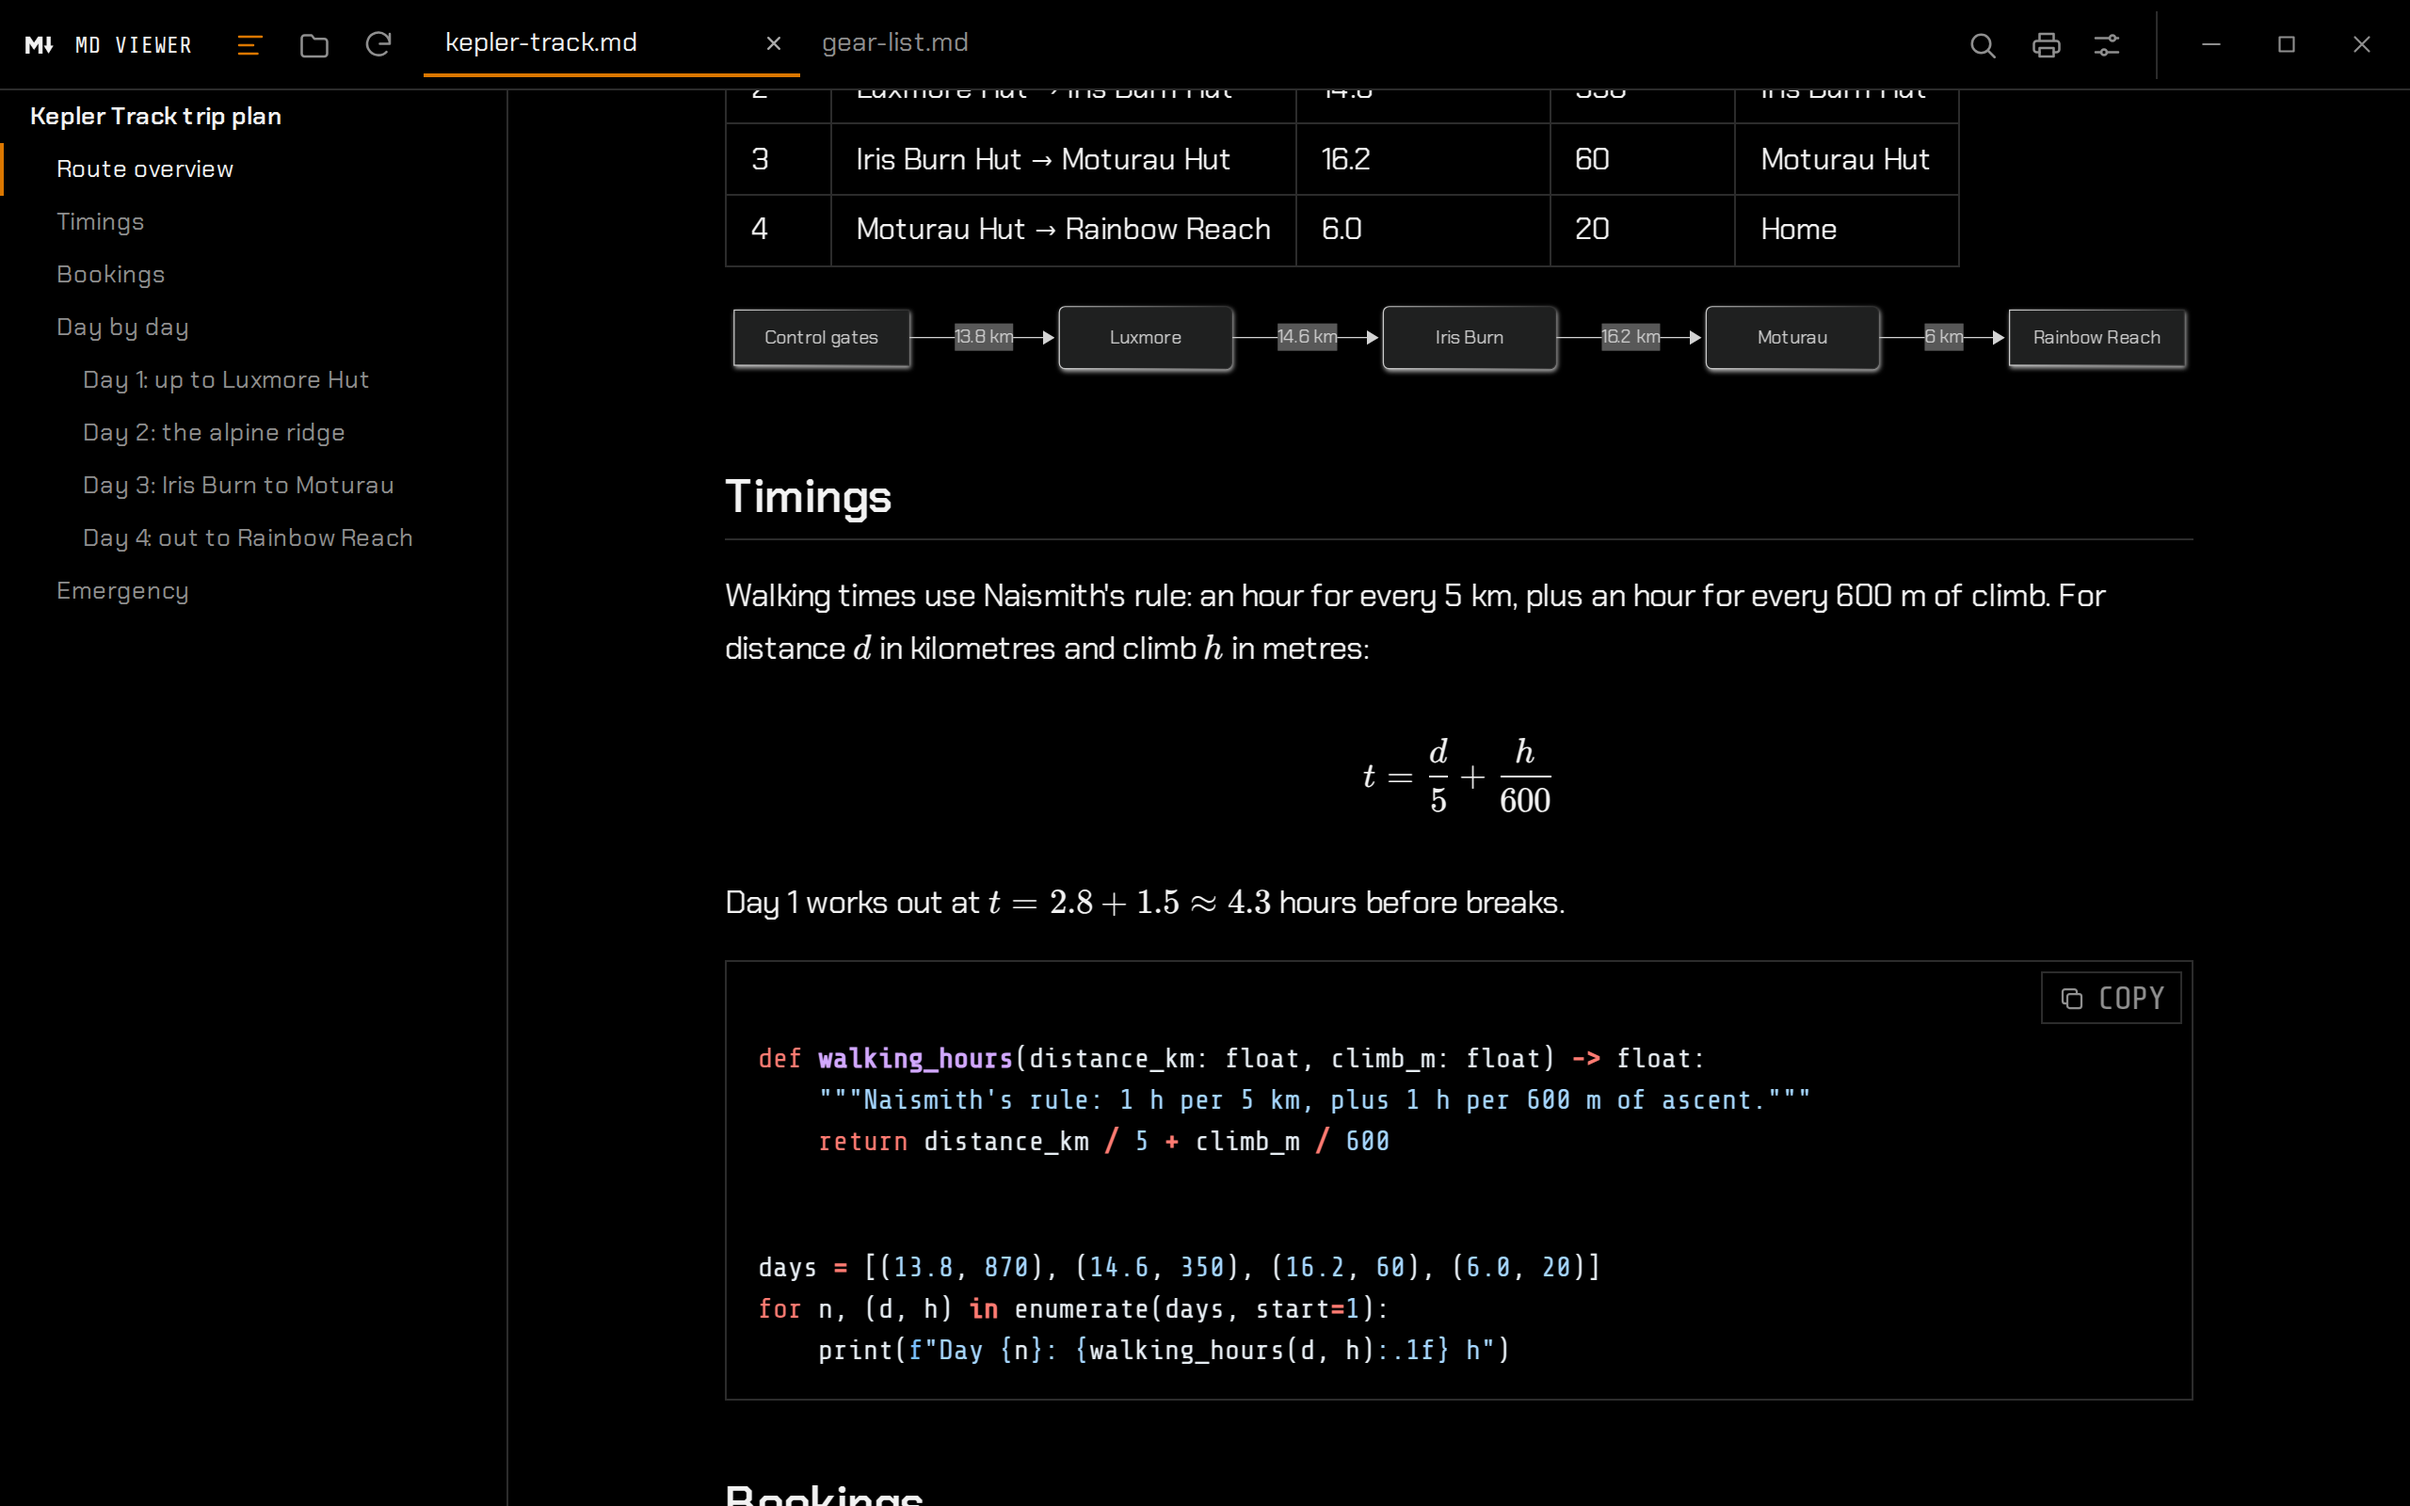
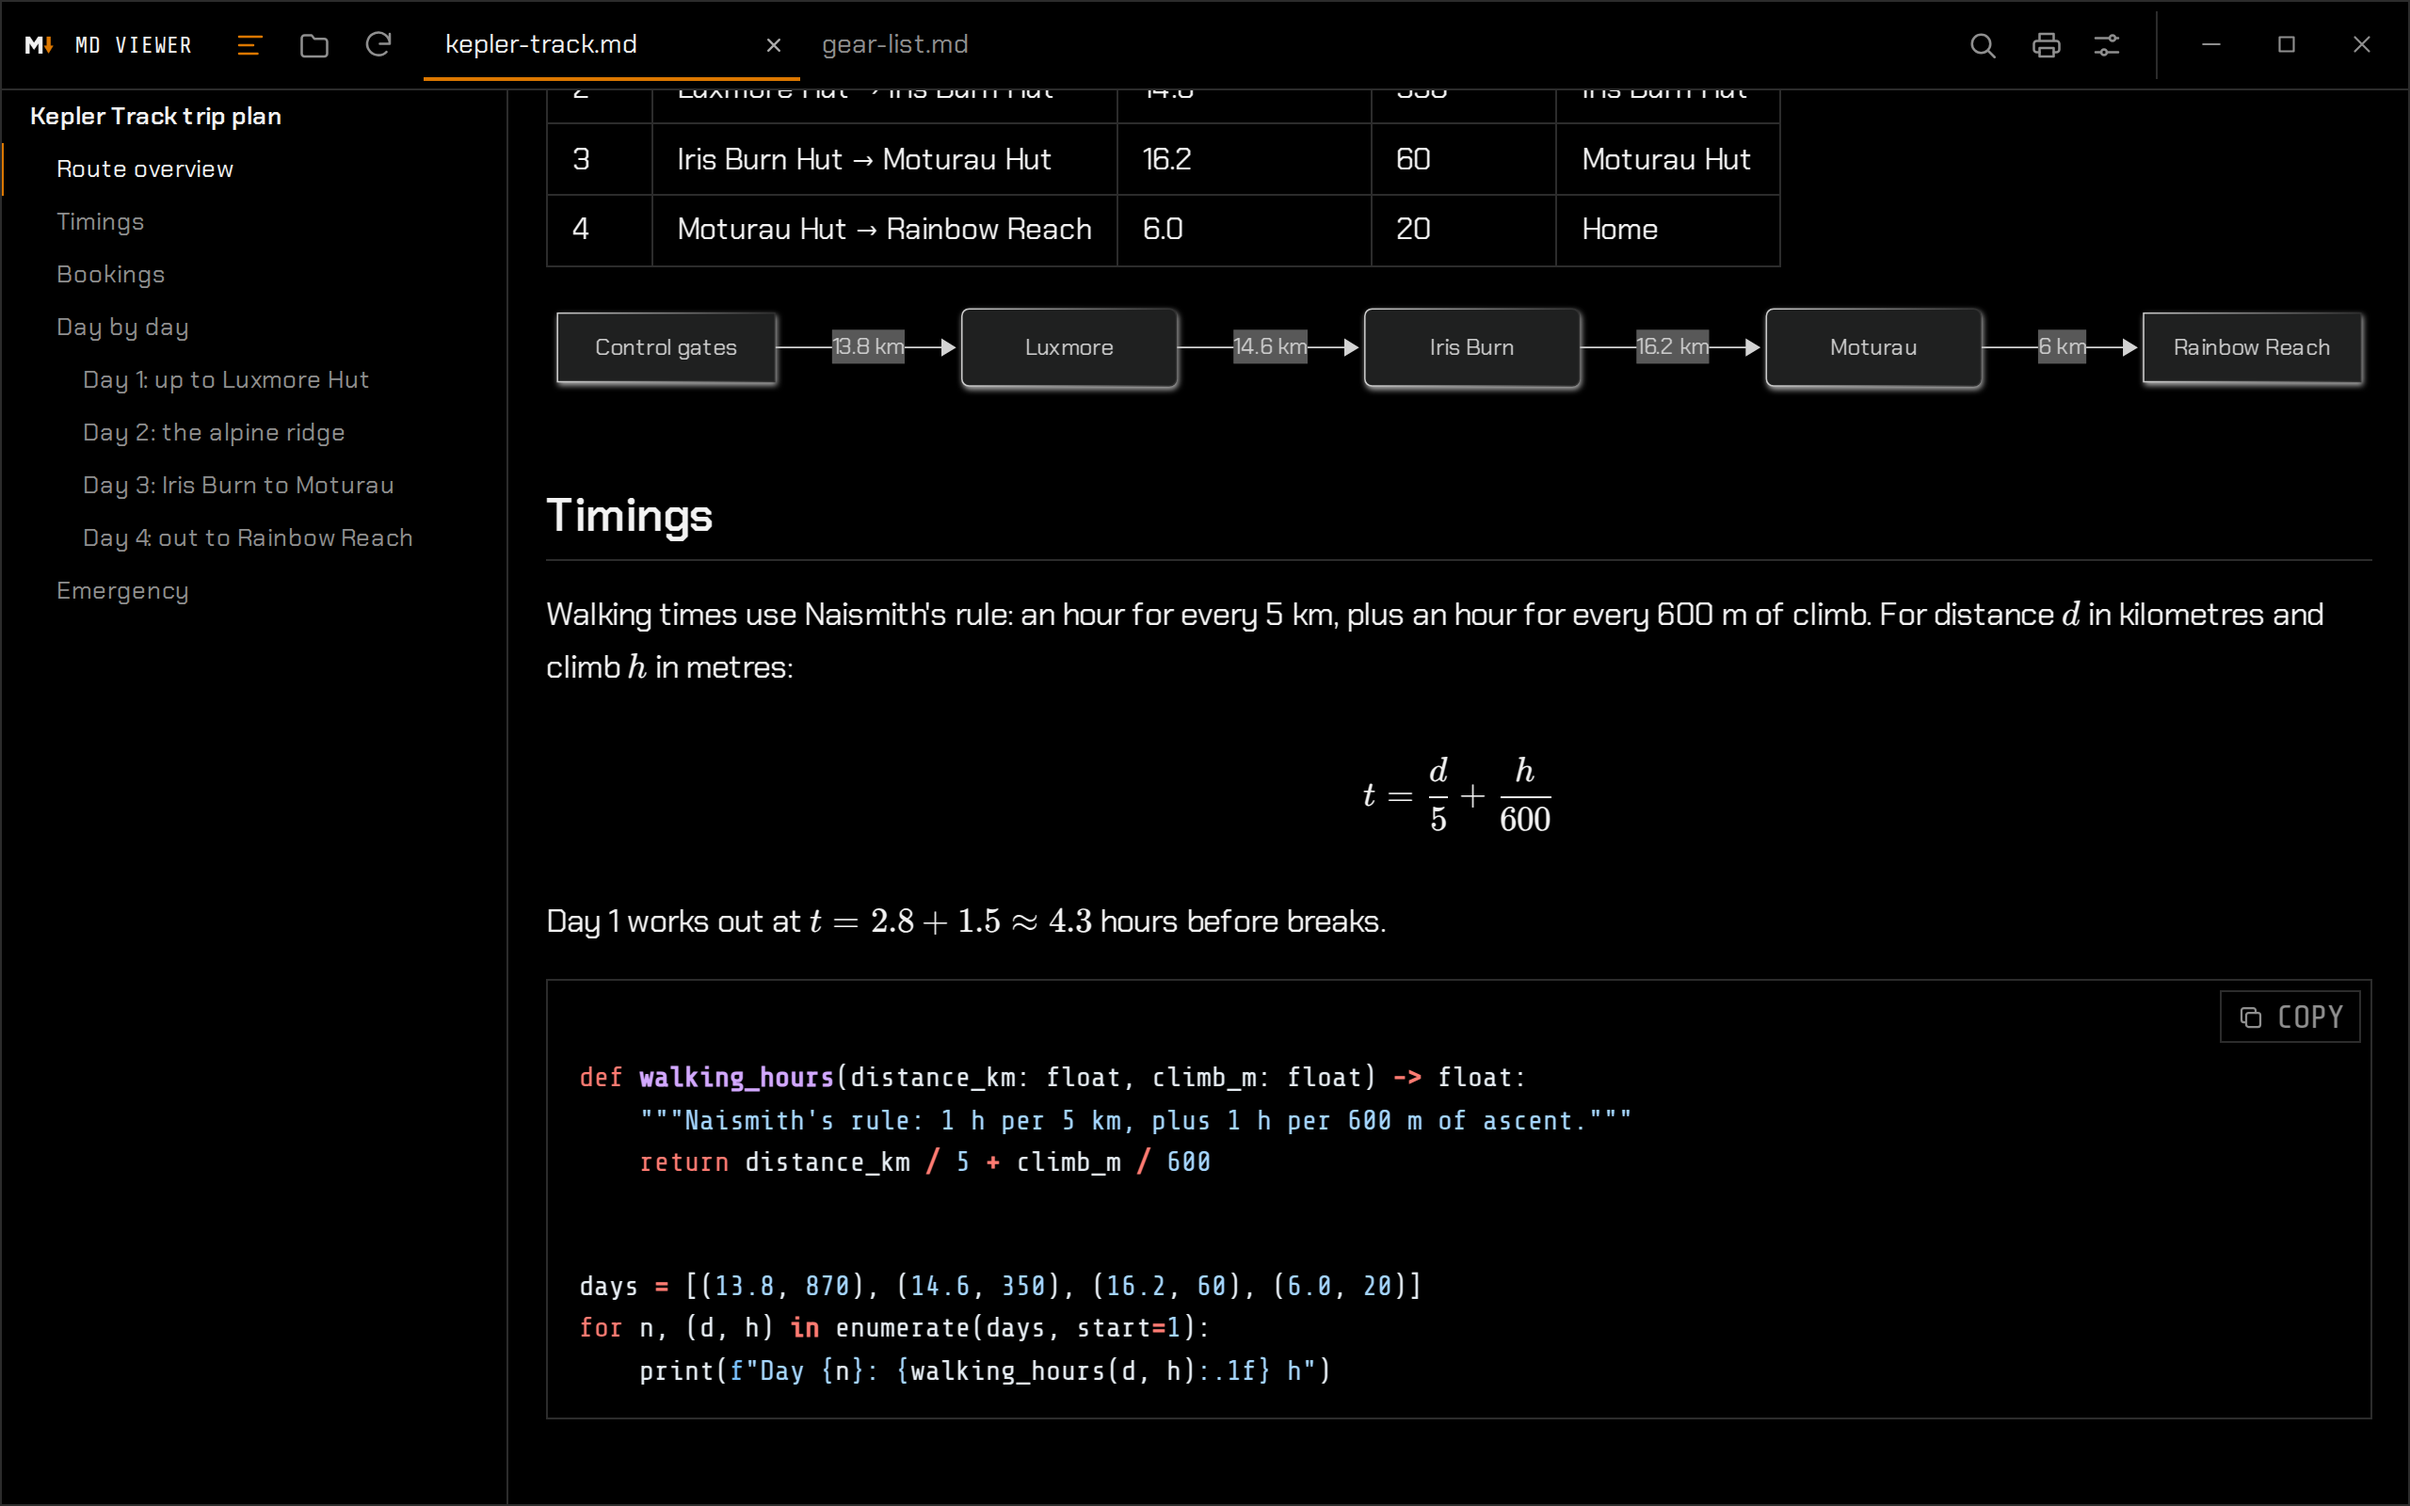
Refine reader spacing and appearance

diff --git a/frontend/style.css b/frontend/style.css
@@ -8,7 +8,7 @@
 :root {
   --font-size: 17px;
   --line-height: 1.65;
-  --content-width: 860px;
+  --document-padding: 20px;
   --sans: "Chakra Petch", -apple-system, BlinkMacSystemFont, system-ui, "Noto Sans", Ubuntu, Cantarell, "Helvetica Neue", Arial, sans-serif;
   --serif: Charter, "Bitstream Charter", "Iowan Old Style", Georgia, Cambria, "Noto Serif", "Times New Roman", serif;
   --mono: "Share Tech Mono", "Cascadia Code", Consolas, "SF Mono", ui-monospace, Menlo, "DejaVu Sans Mono", "Liberation Mono", monospace;
@@ -52,9 +52,6 @@
   color-scheme: light;
 }
 
-[data-width=narrow] { --content-width: 680px; }
-[data-width=medium] { --content-width: 860px; }
-[data-width=full]   { --content-width: none; }
 [data-font=serif]   { --text-font: var(--serif); }
 
 * { box-sizing: border-box; }
@@ -69,6 +66,16 @@ html, body {
 }
 
 button { font: inherit; color: inherit; }
+
+/* Keep the window outline clear of layout and native drag/resize hit testing. */
+body::after {
+  content: "";
+  position: fixed;
+  inset: 0;
+  border: 1px solid var(--border);
+  pointer-events: none;
+  z-index: 100;
+}
 
 /* Top bar */
 #bar {
@@ -157,6 +164,7 @@ button { font: inherit; color: inherit; }
 .icon:hover { background: var(--bg-hover); color: var(--text); }
 .icon.on { color: var(--accent); }
 .icon svg {
+  display: block;
   width: 18px;
   height: 18px;
   fill: none;
@@ -262,6 +270,7 @@ button { font: inherit; color: inherit; }
 .seg button + button { border-left: 1px solid var(--border); }
 .seg button.on { background: var(--bg-hover); color: var(--text-strong); }
 .seg button:hover, .step button:hover { color: var(--text-strong); }
+.step button:disabled { opacity: .35; cursor: default; color: var(--muted); }
 .step output {
   min-width: 46px;
   text-align: center;
@@ -379,9 +388,8 @@ body.dragging #docs { outline: 2px dashed var(--accent); outline-offset: -8px; }
 
 /* Document */
 .md {
-  max-width: var(--content-width);
-  margin: 0 auto;
-  padding: 28px 40px 40vh;
+  margin: 0;
+  padding: var(--document-padding);
   font-family: var(--text-font);
   font-size: var(--font-size);
   line-height: var(--line-height);
@@ -400,7 +408,7 @@ body:not(.has-doc) .md { display: none; }
   font-weight: 600;
   scroll-margin-top: 12px;
 }
-.md h1 { font-size: 1.9em; font-weight: 400; text-align: center; padding-bottom: .3em; border-bottom: 1px solid var(--border); }
+.md h1 { font-size: 1.9em; text-align: center; padding-bottom: .3em; border-bottom: 1px solid var(--border); }
 .md h2 { font-size: 1.45em; padding-bottom: .25em; border-bottom: 1px solid var(--border); }
 .md h3 { font-size: 1.2em; }
 .md h4 { font-size: 1.05em; }
@@ -435,10 +443,11 @@ body:not(.has-doc) .md { display: none; }
 .md dd { margin-left: 1.5em; }
 
 .md blockquote {
-  padding: .1em 1em;
-  border-left: 3px solid var(--border);
-  color: var(--muted);
+  padding: .65em 1em;
+  border-left: 4px solid var(--accent);
+  color: var(--text);
 }
+.md blockquote > :first-child { margin-top: 0; }
 .md blockquote > :last-child { margin-bottom: 0; }
 
 .md code, .md kbd, .md pre {
@@ -476,7 +485,7 @@ body:not(.has-doc) .md { display: none; }
   font-size: .94em;
   line-height: 1.5;
 }
-[data-wrap=on] .md table { max-width: 100%; }
+[data-wrap=on] .md table { display: block; max-width: 100%; overflow-x: auto; }
 [data-wrap=on] .md td, [data-wrap=on] .md th { overflow-wrap: anywhere; }
 [data-wrap=off] .md table { display: block; width: max-content; max-width: 100%; overflow-x: auto; }
 [data-wrap=off] .md td, [data-wrap=off] .md th { white-space: nowrap; }
@@ -545,9 +554,11 @@ body:not(.has-doc) .md { display: none; }
     color-scheme: light;
   }
   @page { margin: 16mm 14mm; }
+  body::after { display: none; }
   html, body, main, #docs, .scroller { height: auto !important; overflow: visible !important; display: block; background: #fff; }
   #bar, #toc, #findbar, #webbar, #settings, #toast, #empty, .scroller[hidden], .md .copy { display: none !important; }
   .md { max-width: none; padding: 0; font-size: 11pt; }
+  .md blockquote { border-left-color: var(--muted); }
   .chunk { height: auto !important; }
   .md pre, .md .code pre, [data-wrap] .md pre { padding: .9em 1.1em; white-space: pre-wrap; overflow: visible; overflow-wrap: anywhere; }
   [data-wrap] .md table { display: table; width: auto; max-width: 100%; }
@@ -567,11 +578,11 @@ body:not(.has-doc) .md { display: none; }
 #bar, #tabs, #app-title { --wails-draggable: drag; }
 #bar button, #tools, #window-controls, .tab, .tab * { --wails-draggable: no-drag; }
 #app-title { display: inline-flex; align-items: center; gap: 8px; flex: none; padding: 0 12px 0 4px; font: 12px/1 var(--mono); letter-spacing: .08em; text-transform: uppercase; }
-#app-title img { pointer-events: none; }
+#app-title img { display: block; flex: none; pointer-events: none; }
 #bar svg, #bar svg * { --wails-draggable: no-drag; }
 #bar > .icon, #tools, #window-controls { flex: none; }
-#bar .icon { height: 36px; }
-#tabs { align-items: stretch; padding: 6px; gap: 0; }
+#bar .icon { height: 36px; line-height: 1; }
+#tabs { align-items: stretch; padding: 6px 6px 4px; gap: 0; }
 .tab, .tab.active { align-self: stretch; height: auto; margin-bottom: 0; border: 0; border-bottom: 2px solid transparent; font-family: var(--sans); }
 .tab.active { border-bottom-color: var(--accent); }
 #tools, #window-controls { display: flex; align-items: center; }
@@ -608,7 +619,6 @@ button:focus-visible, a:focus-visible, input:focus-visible { outline: 2px solid 
   #window-controls { padding-left: 4px; margin-left: 4px; }
   #window-controls .icon { width: 30px; }
   #toc { flex-basis: min(180px, 36vw); }
-  .md { padding: 24px 20px 40vh; }
   .tab { min-width: 80px; padding-left: 8px; }
   .md h1 { font-size: 1.6em; }
 }

diff --git a/frontend/app.js b/frontend/app.js
@@ -22,18 +22,19 @@ let settings = null;
 
 // ---- Settings ----
 
-const DEFAULTS = { theme: 'dark', wrap: true, fontSize: 17, lineHeight: 1.65, width: 'medium', font: 'sans', liveReload: true, toc: true };
-const LIMITS = { fontSize: [12, 28], lineHeight: [1.2, 2.2] };
-const LAYOUT_KEYS = ['fontSize', 'lineHeight', 'width', 'font', 'wrap', 'toc'];
+const DEFAULTS = { theme: 'dark', wrap: true, fontSize: 17, lineHeight: 1.65, padding: 20, font: 'sans', liveReload: true, toc: true };
+const LIMITS = { fontSize: [12, 28], lineHeight: [1.2, 2.2], padding: [20, 40] };
+const STEPS = { fontSize: 1, lineHeight: 0.05, padding: 4 };
+const LAYOUT_KEYS = ['fontSize', 'lineHeight', 'padding', 'font', 'wrap', 'toc'];
 
 function applySettings(prev) {
   const s = settings;
   html.dataset.theme = s.theme;
   html.dataset.wrap = s.wrap ? 'on' : 'off';
-  html.dataset.width = s.width;
   html.dataset.font = s.font;
   html.style.setProperty('--font-size', s.fontSize + 'px');
   html.style.setProperty('--line-height', String(s.lineHeight));
+  html.style.setProperty('--document-padding', s.padding + 'px');
   tocNav.hidden = !s.toc || !tabs.active;
   $('btn-toc').classList.toggle('on', s.toc);
   syncSettingsUI();
@@ -86,14 +87,16 @@ function syncSettingsUI() {
   }
   for (const st of document.querySelectorAll('.step')) {
     const v = settings[st.dataset.key];
-    st.querySelector('output').textContent = st.dataset.key === 'lineHeight' ? v.toFixed(2) : v;
+    st.querySelector('output').textContent = st.dataset.key === 'lineHeight' ? v.toFixed(2) : st.dataset.key === 'padding' ? `${v} px` : v;
+    st.querySelector('[data-d="-1"]').disabled = v <= LIMITS[st.dataset.key][0];
+    st.querySelector('[data-d="1"]').disabled = v >= LIMITS[st.dataset.key][1];
   }
   for (const cb of document.querySelectorAll('#settings input[type=checkbox]')) cb.checked = settings[cb.dataset.key];
 }
 
 function stepSetting(key, dir) {
   const [lo, hi] = LIMITS[key];
-  const step = key === 'lineHeight' ? 0.05 : 1;
+  const step = STEPS[key];
   const v = Math.round((settings[key] + dir * step) * 100) / 100;
   update({ [key]: Math.min(hi, Math.max(lo, v)) });
 }

diff --git a/frontend/index.html b/frontend/index.html
@@ -74,8 +74,8 @@
     <div class="seg" data-key="theme"><button data-v="dark">Dark</button><button data-v="light">Light</button></div></div>
   <div class="row"><span>Font</span>
     <div class="seg" data-key="font"><button data-v="sans">Sans</button><button data-v="serif">Serif</button></div></div>
-  <div class="row"><span>Width</span>
-    <div class="seg" data-key="width"><button data-v="narrow">Narrow</button><button data-v="medium">Medium</button><button data-v="full">Full</button></div></div>
+  <div class="row"><span>Padding</span>
+    <div class="step" data-key="padding" data-step="4"><button data-d="-1" aria-label="Decrease padding">−</button><output aria-live="polite"></output><button data-d="1" aria-label="Increase padding">+</button></div></div>
   <div class="row"><span>Font size</span>
     <div class="step" data-key="fontSize" data-step="1"><button data-d="-1">−</button><output></output><button data-d="1">+</button></div></div>
   <div class="row"><span>Line spacing</span>

diff --git a/internal/settings/settings_test.go b/internal/settings/settings_test.go
@@ -8,6 +8,56 @@ import (
 	"testing"
 )
 
+func TestPadding(t *testing.T) {
+	for _, tc := range []struct {
+		name string
+		json string
+		want int
+	}{
+		{"missing", `{}`, 20},
+		{"legacy width", `{"width":"narrow","fontSize":21}`, 20},
+		{"zero", `{"padding":0}`, 20},
+		{"below minimum", `{"padding":19}`, 20},
+		{"minimum", `{"padding":20}`, 20},
+		{"saved", `{"padding":28}`, 28},
+		{"negative", `{"padding":-4}`, 20},
+		{"maximum", `{"padding":40}`, 40},
+		{"too large", `{"padding":100}`, 40},
+	} {
+		t.Run(tc.name, func(t *testing.T) {
+			s := Defaults()
+			if err := json.Unmarshal([]byte(tc.json), &s); err != nil {
+				t.Fatal(err)
+			}
+			s = s.Clean()
+			if s.Padding != tc.want {
+				t.Fatalf("padding = %d, want %d", s.Padding, tc.want)
+			}
+			p := filepath.Join(t.TempDir(), "settings.json")
+			if err := saveFile(p, s); err != nil {
+				t.Fatal(err)
+			}
+			b, err := os.ReadFile(p)
+			if err != nil {
+				t.Fatal(err)
+			}
+			var saved map[string]any
+			if err := json.Unmarshal(b, &saved); err != nil {
+				t.Fatal(err)
+			}
+			if saved["padding"] != float64(tc.want) {
+				t.Fatalf("saved padding = %v, want %d", saved["padding"], tc.want)
+			}
+			if _, ok := saved["width"]; ok {
+				t.Fatal("saved obsolete width setting")
+			}
+			if tc.name == "legacy width" && saved["fontSize"] != float64(21) {
+				t.Fatal("lost unrelated legacy preference")
+			}
+		})
+	}
+}
+
 func TestConcurrentSave(t *testing.T) {
 	p := filepath.Join(t.TempDir(), "md-viewer", "settings.json")
 	var wg sync.WaitGroup

diff --git a/internal/settings/settings.go b/internal/settings/settings.go
@@ -15,7 +15,7 @@ type Settings struct {
 	Wrap       bool    `json:"wrap"`       // wrap code blocks and tables
 	FontSize   int     `json:"fontSize"`   // px
 	LineHeight float64 `json:"lineHeight"` // unitless
-	Width      string  `json:"width"`      // "narrow", "medium" or "full"
+	Padding    int     `json:"padding"`    // px around the document
 	Font       string  `json:"font"`       // "sans" or "serif"
 	LiveReload bool    `json:"liveReload"`
 	TOC        bool    `json:"toc"` // sidebar open
@@ -28,7 +28,7 @@ func Defaults() Settings {
 		Wrap:       true,
 		FontSize:   17,
 		LineHeight: 1.65,
-		Width:      "medium",
+		Padding:    20,
 		Font:       "sans",
 		LiveReload: true,
 		TOC:        true,
@@ -105,11 +105,7 @@ func (s Settings) Clean() Settings {
 	if s.LineHeight < 1.2 || s.LineHeight > 2.2 {
 		s.LineHeight = d.LineHeight
 	}
-	switch s.Width {
-	case "narrow", "medium", "full":
-	default:
-		s.Width = d.Width
-	}
+	s.Padding = min(max(s.Padding, 20), 40)
 	if s.Font != "sans" && s.Font != "serif" {
 		s.Font = d.Font
 	}

diff --git a/README.md b/README.md
@@ -31,7 +31,7 @@ On narrow windows, **More actions** contains Print and Settings.
 - Table of contents sidebar that follows your place in the document
 - Find in document, including parts of large files not yet on screen
 - Live reload when the file changes on disk, plus a reload button
-- Adjustable font size, line spacing, content width and font
+- Adjustable font size, line spacing, document padding and font
 - Word wrap for code blocks and tables, which can be turned off
 - Handles large files (tested to 25 MB) by rendering only what's near the
   screen
